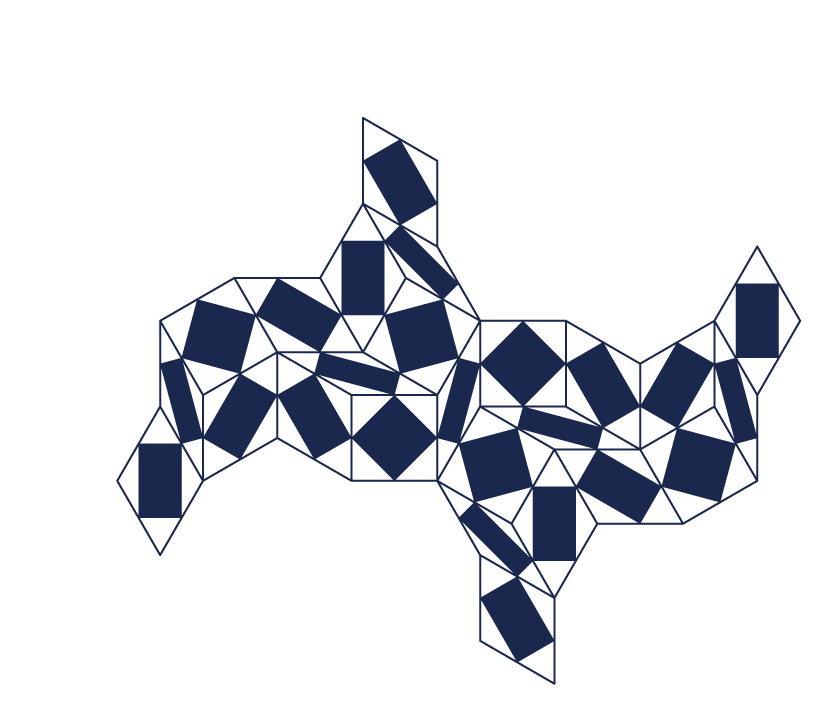
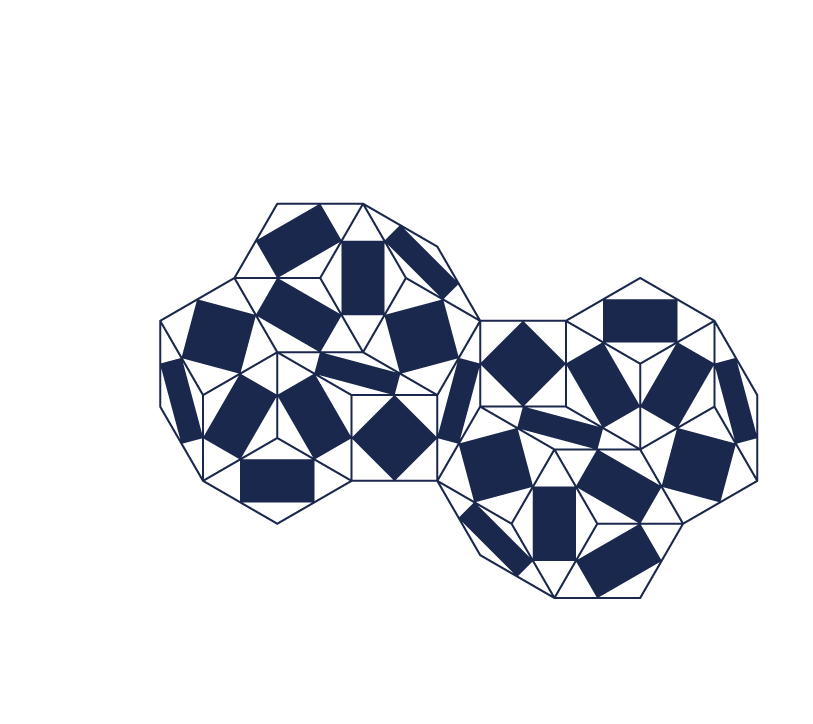
hide

diff --git a/viscuitta/test.html b/viscuitta/test.html
@@ -13,59 +13,6 @@
                             "shapeCount": true
         },
         "rules": [
-            // twin dragon
-            [
-                {
-                    "scale": [
-                        1,
-                        1/Math.sqrt(3), 
-                        1/Math.sqrt(2)
-                    ],
-                    "stepLimit": 1
-                },
-                { 
-                    "pattern": [".r0"], "next": [[],[],[]],
-                }
-                , 
-                { 
-                    "pattern": [".r2"], "next": [[], [],[
-                        [1.5, 0, 0, 0, 0, 0, 0],
-                        [1.5, 1/Math.sqrt(2), 0, 0, -1/Math.sqrt(2), 0, 0],
-                        ]],
-                },
-                { 
-                    "pattern": [".r1"], "next": [[],[],[]],
-                }
-                , 
-            ]
-            ,
-            // twin dragon
-            [
-                {
-                    "scale": [
-                        1,
-                        1/Math.sqrt(3), 
-                        1/Math.sqrt(2)
-                    ],
-                    "stepLimit": 6
-                },
-                { 
-                    "pattern": [".r0"], "next": [[],[],[]],
-                }
-                , 
-                { 
-                    "pattern": [".r1"], "next": [[],[
-                        [-1, 0, 0, 0, 0, 0, 0],
-                        [3, 0, 0, 0, -1, 0, -1],
-                        [-1, 0, 1, 0, 0, 0, -1],
-                    ],[]],
-                }
-                , 
-                { 
-                    "pattern": [".r2"], "next": [[],[],[]],
-                }
-            ]
-            ,
             // harris
             [{ "pattern": [".r0"], "next": [[[0, 0, 1, 0, 0, -1, 0], [0, 1, 1, 1, -1, -1, -1], [3, 1, 1, 0, -1, -1, -1], [-2, 0, 0, 0, 0, 0, 0], [-2, 2, 2, 1, 0, -1, -2], [-1, 1, 1, 1, 0, 0, 0], [-1, 1, 1, 0, -1, -1, -1]], [[0, 1, 0, 1, 0, -1, -3], [-1, 0, 1, 0, 0, -1, 0], [5, 2, 1, 1, -1, -1, -2], [6, 1, 1, 0, 0, -1, 0]], [[1, 0, 0, 0, 0, 0, 0], [1, 2, 1, 1, -1, -1, -2], [0, 0, 1, 0, 0, -1, -1], [0, 1, 1, 1, 0, -1, -1], [2, 1, 1, 0, 0, -1, 0], [2, 1, 1, 0, -1, -1, -1]]] }
                 , { "pattern": [".r1"], "next": [[[3, 3, 1, -1, -1, -1, -2], [-2, 1, 0, 0, 0, -1, -1], [8, 1, 1, 1, 0, -1, -1], [-1, 1, 1, 0, 0, -1, -1]], [[8, 1, 0, 1, 0, -1, -1], [4, 0, 0, 0, 0, -1, -1], [4, 1, 1, 0, 0, -2, -2], [-1, 1, 1, 0, 0, -2, -1], [3, 1, 0, 0, -1, -2, -1], [-1, 0, 0, 0, 0, -1, 0], [-2, 1, 0, 0, -1, -1, -1]], [[0, 0, 0, 0, 0, -1, -1], [1, 1, 0, 0, 0, -1, -1], [0, 1, 1, 0, 0, -2, -2], [-1, 1, 1, 1, 0, -1, -1]]] }
@@ -79,11 +26,6 @@
             // sqsmall
             [{ "pattern": [".r0"], "next": [[[0, 0, 1, 0, 0, -1, 0], [0, 1, 1, 1, -1, -1, -1], [3, 1, 1, 0, -1, -1, -1], [-1, 1, 1, 0, -1, -1, -1], [-2, 2, 2, 1, 0, -1, -2], [-1, 1, 1, 1, 0, 0, 0], [-2, 0, 0, 0, 0, 0, 0]], [[0, 1, 0, 1, 0, -1, -3], [4, 1, 0, 0, 0, -2, -3], [-1, 0, 1, 0, 0, -1, 0], [3, 0, 0, 0, -1, -1, 0], [5, 2, 1, 1, -1, -1, -2], [9, 2, 2, 1, 0, -1, -2], [-2, 1, 1, 1, 0, 0, 0], [6, 1, 1, 0, 0, -1, 0], [-1, 1, 1, 0, -1, -2, -1], [4, 2, 2, 1, 0, -2, -2], [5, 1, 1, 1, 0, 0, -1], [-2, 0, 0, 0, -1, 0, 0]], [[1, 0, 0, 0, 0, 0, 0], [1, 2, 1, 1, -1, -1, -2], [0, 0, 1, 0, 0, -1, -1], [0, 1, 1, 1, 0, -1, -1], [2, 1, 1, 0, 0, -1, 0], [2, 1, 1, 0, -1, -1, -1]]] }
                 , { "pattern": [".r1"], "next": [[[-3, 2, 1, 1, 0, -2, -2], [-2, 1, 0, 0, 0, -1, -1], [8, 1, 1, 1, 0, -1, -1], [-1, 1, 1, 0, 0, -1, -1]], [[3, 2, 1, 1, -1, -2, -2], [8, 2, 1, 1, 0, -2, -2], [4, 1, 1, 0, 0, -2, -2], [-1, 1, 1, 0, 0, -2, -1], [3, 1, 0, 0, -1, -2, -1], [-4, 1, 0, 1, 0, -1, -1], [2, 0, 0, -1, -1, -1, -1]], [[0, 0, 0, 0, 0, -1, -1], [1, 1, 0, 0, 0, -1, -1], [0, 1, 1, 0, 0, -2, -2], [-1, 1, 1, 1, 0, -1, -1]]] }
-                , { "pattern": [".r2"], "next": [[], [], [[0, 0, 0, 0, 0, -1, -1]]] }]
-            ,
-            // sqsmall2
-            [{ "pattern": [".r0"], "next": [[[0, 0, 1, 0, 0, -1, 0], [0, 1, 1, 1, -1, -1, -1], [3, 1, 1, 0, -1, -1, -1], [-1, 1, 1, 0, -1, -1, -1], [-2, 2, 2, 1, 0, -1, -2], [-1, 1, 1, 1, 0, 0, 0], [-2, 0, 0, 0, 0, 0, 0]], [[0, 1, 0, 1, 0, -1, -3], [4, 1, 0, 0, 0, -2, -3], [-1, 0, 1, 0, 0, -1, 0], [3, 0, 0, 0, -1, -1, 0], [5, 2, 1, 1, -1, -1, -2], [9, 2, 2, 1, 0, -1, -2], [-2, 1, 1, 1, 0, 0, 0], [6, 1, 1, 0, 0, -1, 0], [-1, 1, 1, 0, -1, -2, -1], [4, 2, 2, 1, 0, -2, -2], [5, 1, 1, 1, 0, 0, -1], [-2, 0, 0, 0, -1, 0, 0]], [[1, 0, 0, 0, 0, 0, 0], [1, 2, 1, 1, -1, -1, -2], [0, 0, 1, 0, 0, -1, -1], [0, 1, 1, 1, 0, -1, -1], [2, 1, 1, 0, 0, -1, 0], [2, 1, 1, 0, -1, -1, -1]]] }
-                , { "pattern": [".r1"], "next": [[[-3, 2, 1, 1, 0, -2, -2], [-2, 1, 0, 0, 0, -1, -1], [8, 1, 1, 1, 0, -1, -1], [-1, 1, 1, 0, 0, -1, -1]], [[3, 2, 1, 1, -1, -2, -2], [8, 2, 1, 1, 0, -2, -2], [4, 1, 1, 0, 0, -2, -2], [-1, 1, 1, 0, 0, -2, -1], [3, 1, 0, 0, -1, -2, -1], [-4, 1, 0, 1, 0, -1, -1], [-2, 1, 0, 0, -1, -1, -1]], [[2, 1, 0, -1, -1, -2, -1], [1, 1, 0, 0, 0, -1, -1], [0, 1, 1, 0, 0, -2, -2], [-1, 1, 1, 1, 0, -1, -1]]] }
                 , { "pattern": [".r2"], "next": [[], [], [[0, 0, 0, 0, 0, -1, -1]]] }]
             ,
             // x
@@ -100,16 +42,6 @@
             [{ "pattern": [".r0"], "next": [[[0, 0, 1, 0, 0, -1, 0], [0, 1, 1, 1, -1, -1, -1], [3, 1, 1, 0, -1, -1, -1]], [[0, 1, 0, 1, 0, -1, -3], [-1, 0, 1, 0, 0, -1, 0], [5, 2, 1, 1, -1, -1, -2], [6, 1, 1, 0, 0, -1, 0]], [[1, 0, 0, 0, 0, 0, 0], [1, 2, 1, 1, -1, -1, -2], [0, 0, 1, 0, 0, -1, -1], [0, 1, 1, 1, 0, -1, -1], [2, 1, 1, 0, 0, -1, 0], [2, 1, 1, 0, -1, -1, -1]]] }
                 , { "pattern": [".r1"], "next": [[[-1, 0, 0, 0, 0, 0, 0], [-2, 1, 0, 0, 0, -1, -1], [8, 1, 1, 1, 0, -1, -1], [-1, 1, 1, 0, 0, -1, -1]], [[8, 1, 0, 1, 0, -1, -1], [4, 0, 0, 0, 0, -1, -1], [4, 1, 1, 0, 0, -2, -2], [-1, 1, 1, 0, 0, -2, -1], [3, 1, 0, 0, -1, -2, -1], [-1, 0, 0, 0, 0, -1, 0], [-2, 1, 0, 0, -1, -1, -1]], [[0, 0, 0, 0, 0, -1, -1], [1, 1, 0, 0, 0, -1, -1], [0, 1, 1, 0, 0, -2, -2], [-1, 1, 1, 1, 0, -1, -1]]] }
                 , { "pattern": [".r2"], "next": [[[-1, 0, 0, 0, 0, 0, 0], [5, 1, 0, 0, -1, -2, -2], [2, 0, -1, -1, -1, -1, -1], [-4, 1, 1, 1, 0, -1, -1]], [[8, 1, 0, 1, 0, -1, -1], [-1, 0, 0, 0, 0, -1, 0], [5, 1, 0, 0, -1, -1, -2], [2, 0, 0, -1, -1, -1, -1], [1, 1, 0, 0, 0, -1, -1], [4, 0, 0, 0, 0, -1, -1], [-2, 1, 0, 0, -1, -1, -1], [7, 0, 0, 0, -1, -1, -1]], [[0, 0, 0, 0, 0, -1, -1]]] }]
-            ,
-            // ok
-            [{ "pattern": [".r0"], "next": [[[0, 0, 1, 0, 0, -1, 0], [0, 1, 1, 1, -1, -1, -1], [3, 1, 1, 0, -1, -1, -1]], [], [[1, 0, 0, 0, 0, 0, 0], [1, 2, 1, 1, -1, -1, -2], [0, 0, 1, 0, 0, -1, -1], [0, 1, 1, 1, 0, -1, -1], [2, 1, 1, 0, 0, -1, 0], [2, 1, 1, 0, -1, -1, -1]]] }
-                , { "pattern": [".r1"], "next": [[[-1, 0, 0, 0, 0, 0, 0], [-2, 1, 0, 0, 0, -1, -1], [2, 1, 0, 0, 0, -1, -1], [-1, 1, 1, 0, 0, -1, -1]], [[0, 0, 0, 1, 0, 0, -1], [8, 1, 0, 1, 0, -1, -1], [4, 0, 0, 0, 0, -1, -1], [-1, 1, 1, 0, 0, -2, -1], [3, 1, 0, 0, -1, -2, -1], [7, 1, 1, 0, -1, -2, -2], [-2, 1, 0, 0, -1, -1, -1]], [[0, 0, 0, 0, 0, -1, -1], [1, 1, 0, 0, 0, -1, -1], [0, 1, 1, 0, 0, -2, -2], [-1, 1, 1, 1, 0, -1, -1]]] }
-                , { "pattern": [".r2"], "next": [[[-1, 0, 0, 0, 0, 0, 0], [-1, 1, 0, 0, -1, -1, -1], [-4, 0, 0, 0, -1, -1, -1], [-4, 1, 1, 1, 0, -1, -1]], [[0, 0, 0, 1, 0, 0, -1], [4, 0, 0, 0, 0, -1, -1], [8, 1, 0, 1, 0, -1, -1], [-1, 0, 0, 0, 0, -1, 0], [3, 0, -1, 0, -1, -1, 0], [7, 0, 0, 0, -1, -1, -1], [1, 1, 0, 0, 0, -1, -1], [5, 1, 0, 0, -1, -1, -2], [9, 1, 1, 0, 0, -1, -2], [-2, 1, 0, 0, -1, -1, -1], [2, 0, 0, -1, -1, -1, -1], [6, 1, 0, -1, -1, -2, -1]], [[0, 0, 0, 0, 0, -1, -1]]] }]
-            ,
-            // dragon
-            [{ "pattern": [".r0"], "next": [[[0, 0, 1, 0, 0, -1, 0], [0, 1, 1, 1, -1, -1, -1], [3, 1, 1, 0, -1, -1, -1], [-2, 0, 0, 0, 0, 0, 0], [-2, 2, 2, 1, 0, -1, -2], [-1, 1, 1, 1, 0, 0, 0], [-1, 1, 1, 0, -1, -1, -1]], [[0, 1, 0, 1, 0, -1, -3], [-1, 0, 1, 0, 0, -1, 0], [5, 2, 1, 1, -1, -1, -2], [6, 1, 1, 0, 0, -1, 0]], [[1, 0, 0, 0, 0, 0, 0], [1, 2, 1, 1, -1, -1, -2], [0, 0, 1, 0, 0, -1, -1], [0, 1, 1, 1, 0, -1, -1], [2, 1, 1, 0, 0, -1, 0], [2, 1, 1, 0, -1, -1, -1]]] }
-                , { "pattern": [".r1"], "next": [[[3, 3, 1, -1, -1, -1, -2], [-2, 1, 0, 0, 0, -1, -1], [8, 1, 1, 1, 0, -1, -1], [-1, 1, 1, 0, 0, -1, -1]], [[8, 1, 0, 1, 0, -1, -1], [4, 0, 0, 0, 0, -1, -1], [4, 1, 1, 0, 0, -2, -2], [-1, 1, 1, 0, 0, -2, -1], [3, 1, 0, 0, -1, -2, -1], [-1, 0, 0, 0, 0, -1, 0], [-2, 1, 0, 0, -1, -1, -1]], [[0, 0, 0, 0, 0, -1, -1], [1, 1, 0, 0, 0, -1, -1], [0, 1, 1, 0, 0, -2, -2], [-1, 1, 1, 1, 0, -1, -1]]] }
-                , { "pattern": [".r2"], "next": [[], [[8, 1, 0, 1, 0, -1, -1], [-1, 0, 0, 0, 0, -1, 0], [5, 1, 0, 0, -1, -1, -2], [2, 0, 0, -1, -1, -1, -1], [1, 1, 0, 0, 0, -1, -1], [4, 0, 0, 0, 0, -1, -1], [-2, 1, 0, 0, -1, -1, -1], [7, 0, 0, 0, -1, -1, -1]], [[0, 0, 0, 0, 0, -1, -1]]] }]
             ,
             // dradragon
             [{ "pattern": [".r0"], "next": [[[0, 0, 1, 0, 0, -1, 0], [0, 1, 1, 1, -1, -1, -1], [3, 1, 1, 0, -1, -1, -1], [-2, 0, 0, 0, 0, 0, 0], [-2, 2, 2, 1, 0, -1, -2], [-1, 1, 1, 1, 0, 0, 0], [-1, 1, 1, 0, -1, -1, -1]], [[0, 1, 0, 1, 0, -1, -3], [-1, 0, 1, 0, 0, -1, 0], [5, 2, 1, 1, -1, -1, -2], [6, 1, 1, 0, 0, -1, 0]], [[1, 0, 0, 0, 0, 0, 0], [1, 2, 1, 1, -1, -1, -2], [0, 0, 1, 0, 0, -1, -1], [0, 1, 1, 1, 0, -1, -1], [2, 1, 1, 0, 0, -1, 0], [2, 1, 1, 0, -1, -1, -1]]] }

diff --git a/viscuitta/test.js b/viscuitta/test.js
@@ -35,32 +35,71 @@
         },
         "polygons": [
             `<g class='r0' transform="translate(${(g_len * (1 + g_ac))/2},${(g_len * g_as)/2})"><g class='rr'><g transform="translate(${-(g_len * (1 + g_ac))/2},${-(g_len * g_as)/2})">
-            <!--
+            <g class='base hide'>
             <polygon fill="#ffffff" stroke-width="10" points='0 0, ${g_len} 0, ${g_len * (1 + g_ac)} ${g_len * g_as},${g_len * g_ac} ${g_len * g_as}' stroke='#00165f' stroke-linejoin="round"></polygon>
             <polygon fill="#00165f" points='${(0 + g_len) / 2} ${(0 + 0) / 2},${(g_len + g_len * (1 + g_ac)) / 2} ${(0 + g_len * g_as) / 2},${(g_len * (1 + g_ac) + g_len * g_ac) / 2} ${(g_len * g_as + g_len * g_as) / 2},${(g_len * g_ac + 0) / 2} ${(g_len * g_as + 0) / 2}' ></polygon>
-            -->
+            </g>
             <g transform="translate(${-g_len/2},${-g_len})">
-            <image href="./image/6/30-2.png">
+            <image class='img0 hide' href="./image/0/30.png"/>
+            <image class='img1 hide' href="./image/1/30.png"/>
+            <image class='img2 hide' href="./image/2/30.png"/>
+            <image class='img3 hide' href="./image/3/30.png"/>
+            <image class='img4 hide' href="./image/4/30.png"/>
+            <image class='img5 hide' href="./image/5/30.png"/>
+            <image class='img6 hide' href="./image/6/30.png"/>
+            <image class='img0a hide' href="./image/0/30-2.png"/>
+            <image class='img1a hide' href="./image/1/30-2.png"/>
+            <image class='img2a hide' href="./image/2/30-2.png"/>
+            <image class='img3a hide' href="./image/3/30-2.png"/>
+            <image class='img4a hide' href="./image/4/30-2.png"/>
+            <image class='img5a hide' href="./image/5/30-2.png"/>
+            <image class='img6a hide' href="./image/6/30-2.png"/>
             </g>
             </g></g></g>`
             ,
             `<g class='r1' transform="translate(${(g_len * (1 + g_ac1))/2},${(g_len * g_as1)/2})"><g class='rr'><g transform="translate(${-(g_len * (1 + g_ac1))/2},${-(g_len * g_as1)/2})">
-            <!--
+            <g class='base hide'>
             <polygon fill="#ffffff" stroke-width="10" points='0 0, ${g_len} 0, ${g_len * (1 + g_ac1)} ${g_len * g_as1},${g_len * g_ac1} ${g_len * g_as1}' stroke='#00165f' stroke-linejoin="round"></polygon>
             <polygon fill="#00165f" points='${(0 + g_len) / 2} ${(0 + 0) / 2},${(g_len + g_len * (1 + g_ac1)) / 2} ${(0 + g_len * g_as1) / 2},${(g_len * (1 + g_ac1) + g_len * g_ac1) / 2} ${(g_len * g_as1 + g_len * g_as1) / 2},${(g_len * g_ac1 + 0) / 2} ${(g_len * g_as1 + 0) / 2}' ></polygon>
-            -->
+            </g>
             <g transform="translate(${-g_len/2},${-g_len/2})">
-            <image href="./image/6/60-2.png">
+            <image class='img0 hide' href="./image/0/60.png"/>
+            <image class='img1 hide' href="./image/1/60.png"/>
+            <image class='img2 hide' href="./image/2/60.png"/>
+            <image class='img3 hide' href="./image/3/60.png"/>
+            <image class='img4 hide' href="./image/4/60.png"/>
+            <image class='img5 hide' href="./image/5/60.png"/>
+            <image class='img6 hide' href="./image/6/60.png"/>
+            <image class='img0a hide' href="./image/0/60-2.png"/>
+            <image class='img1a hide' href="./image/1/60-2.png"/>
+            <image class='img2a hide' href="./image/2/60-2.png"/>
+            <image class='img3a hide' href="./image/3/60-2.png"/>
+            <image class='img4a hide' href="./image/4/60-2.png"/>
+            <image class='img5a hide' href="./image/5/60-2.png"/>
+            <image class='img6a hide' href="./image/6/60-2.png"/>
             </g>
             </g></g></g>`
             ,
             `<g class='r2' transform="translate(${g_len/2},${g_len/2})"><g class='rr'><g transform="translate(${-g_len/2},${-g_len/2})">
-            <!--
+            <g class='base hide'>
              <polygon fill="#ffffff" stroke-width="10" points='0 0, ${g_len} 0, ${g_len * (1 + g_ac2)} ${g_len * g_as2},${g_len * g_ac2} ${g_len * g_as2}' stroke='#00165f' stroke-linejoin="round"></polygon>
              <polygon fill="#00165f" points='${(0 + g_len) / 2} ${(0 + 0) / 2},${(g_len + g_len * (1 + g_ac2)) / 2} ${(0 + g_len * g_as2) / 2},${(g_len * (1 + g_ac2) + g_len * g_ac2) / 2} ${(g_len * g_as2 + g_len * g_as2) / 2},${(g_len * g_ac2 + 0) / 2} ${(g_len * g_as2 + 0) / 2}' ></polygon>
-             -->
+             </g>
              <g transform="translate(${-g_len/2},${-g_len/2})">
-             <image href="./image/6/90-2.png">
+            <image class='img0 hide' href="./image/0/90.png"/>
+            <image class='img1 hide' href="./image/1/90.png"/>
+            <image class='img2 hide' href="./image/2/90.png"/>
+            <image class='img3 hide' href="./image/3/90.png"/>
+            <image class='img4 hide' href="./image/4/90.png"/>
+            <image class='img5 hide' href="./image/5/90.png"/>
+            <image class='img6 hide' href="./image/6/90.png"/>
+            <image class='img0a hide' href="./image/0/90-2.png"/>
+            <image class='img1a hide' href="./image/1/90-2.png"/>
+            <image class='img2a hide' href="./image/2/90-2.png"/>
+            <image class='img3a hide' href="./image/3/90-2.png"/>
+            <image class='img4a hide' href="./image/4/90-2.png"/>
+            <image class='img5a hide' href="./image/5/90-2.png"/>
+            <image class='img6a hide' href="./image/6/90-2.png"/>
              </g>
              </g></g></g>`
             ,
@@ -101,6 +140,12 @@
         let stage = args.stage;
         stageHash = {};
         stage.innerHTML = '';
+    }
+    function last() {
+        return (param.ruleIndex-1+config.rules.length)%config.rules.length;
+    }
+    function incr() {
+        param.ruleIndex = (param.ruleIndex+1+config.rules.length)%config.rules.length;
     }
     function rules(step, args) {
         let patternShapes = {};
@@ -210,18 +255,38 @@
             console.warn('shapeCount:' + count);
         }
     }
+    function showImage() {
+        let imgs_last = document.querySelectorAll('image.img'+last());
+        for (let ii=0;ii<imgs_last.length;ii++){
+            imgs_last[ii].classList.add('hide');
+        }
+        let imgs = document.querySelectorAll('image.img'+param.ruleIndex);
+        for (let ii=0;ii<imgs.length;ii++){
+            imgs[ii].classList.remove('hide');
+        }
+    }
     function init() {
         param.userConfigStr = document.currentScript.textContent.trim();
         updateConfig();
         document.addEventListener('DOMContentLoaded',
             function () {
+
+                addButton('start', function () {
+                    clear(args);
+                    addSeed(args);
+                    param.stepLimit = 1;
+                    //main(0, args);
+                    showImage();
+                    incr();
+                });
+                /*
                 addButton('start', function () {
                     clear(args);
                     addSeed(args);
                     param.stepLimit = parseInt(document.querySelector('input#stepLimit').value, 10);
                     main(0, args);
                 });
-                document.body.insertAdjacentHTML('beforeend', '<input id="stepLimit" size="5" value="3">');
+                document.body.insertAdjacentHTML('beforeend', '<input id="stepLimit" size="5" value="1">');
                 let stepLimit = document.querySelector('input#stepLimit').value;
                 addButton('reset', function () {
                     orgClick(args);
@@ -249,15 +314,12 @@
                     for (let ri=0;ri<rrs.length;ri++) {
                         rrs[ri].classList.toggle('each');
                     }
-                    /*
-                    document.querySelector('g#stage').classList.toggle('focus0');
-                    document.querySelector('g#stages').classList.toggle('focus0s');
-                    */
                 });
                 addButton('next', function () {
                     param.ruleIndex++;
                     orgClick(args);
                 });
+                */
                 //http://cubic-bezier.com/
                 document.body.insertAdjacentHTML('beforeend', `<style type="text/css"><!--
 g.move {
@@ -297,6 +359,9 @@ g.focus0 {
 }
 g.focus0s {
     transform: rotate(0)scale(3,3);
+}
+.hide {
+    display: none;
 }
                 --></style>`);
                 document.body.insertAdjacentHTML('beforeend', '<table border="1"><tr><td><svg fill="#ffffff"></svg></td></tr></table>');
